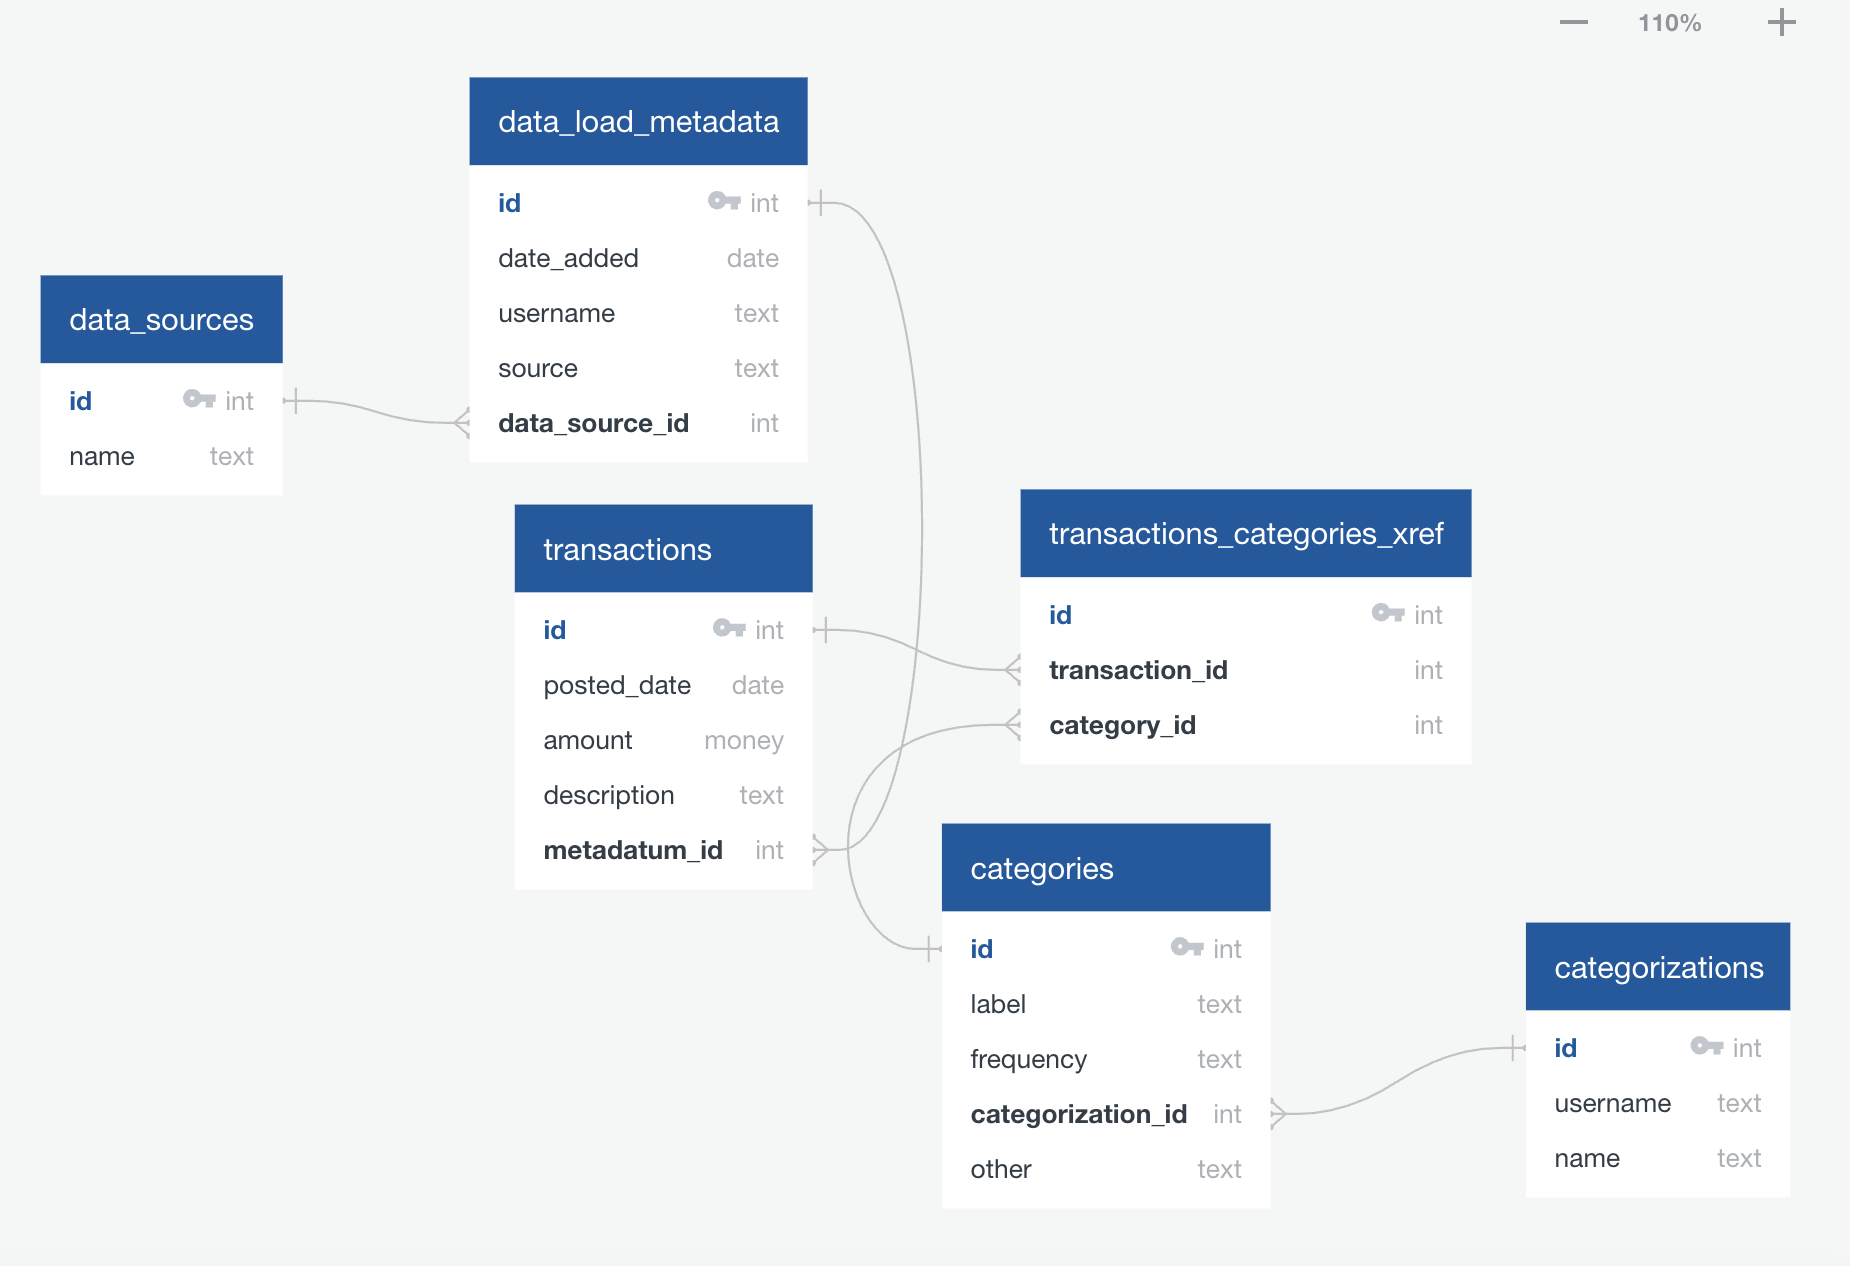
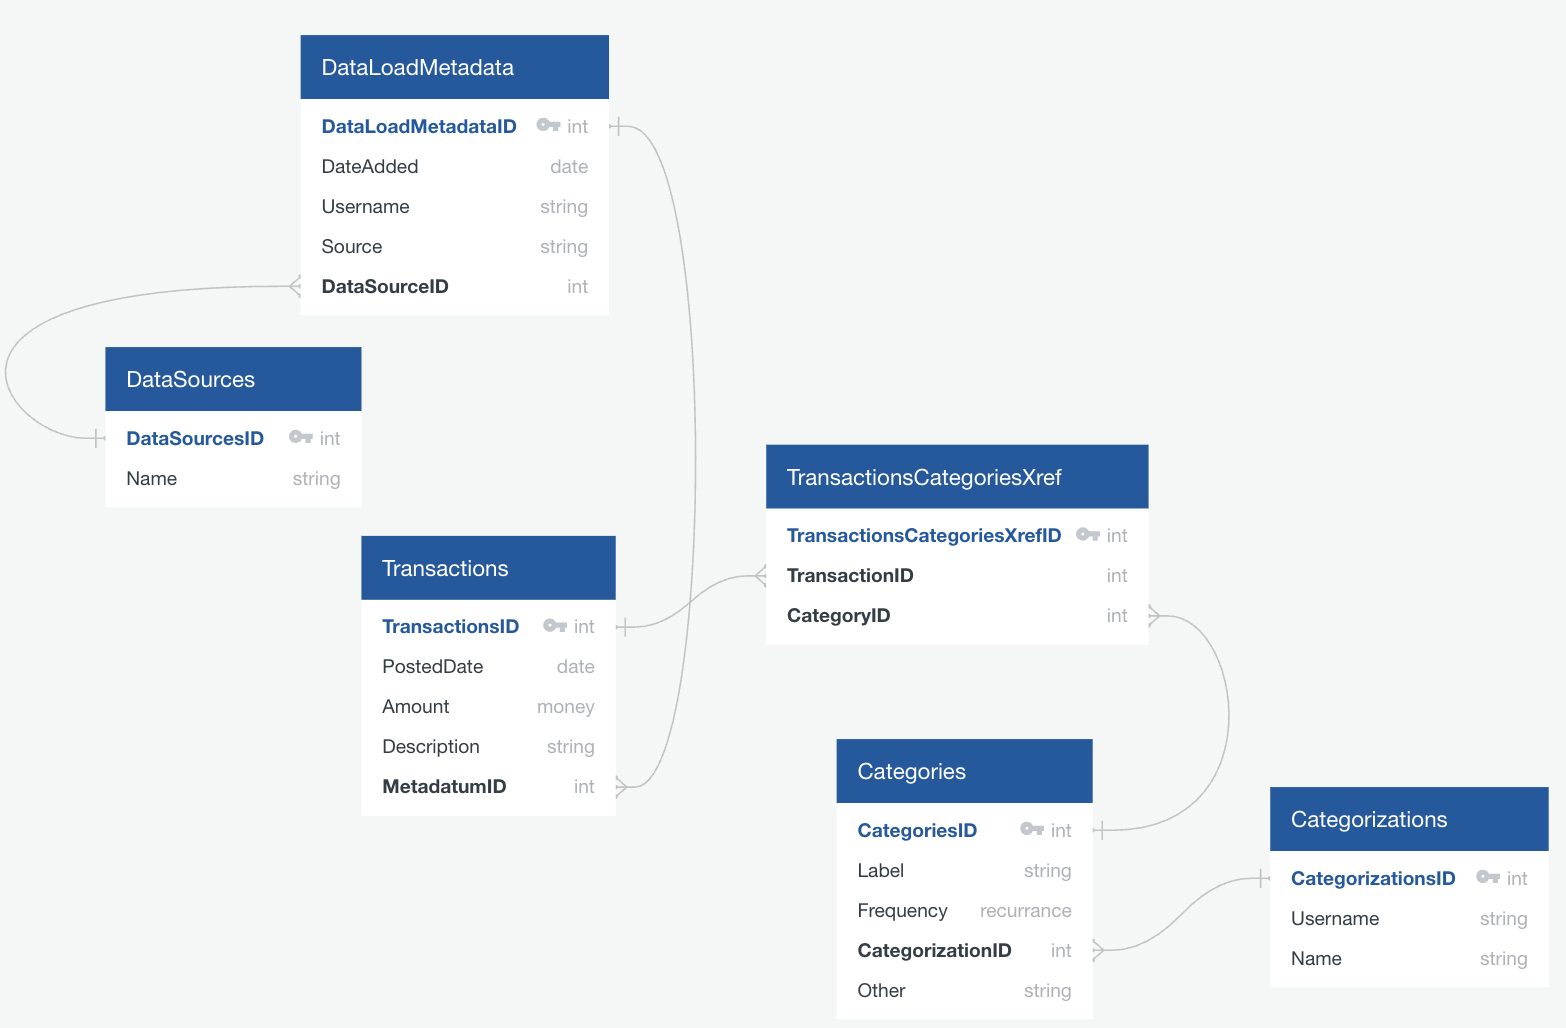
Add new schema img, found some more bugs in the process

diff --git a/src/fintrackr/SQL_to_EDL.py b/src/fintrackr/SQL_to_EDL.py
@@ -1,3 +1,7 @@
+"""
+Copyright (c) 2026 Stephanie Johnson
+"""
+
 import os, sys
 import re
 
@@ -97,24 +101,25 @@ def convert_to_EDL(schema_file_path: str) -> str:
             col_name = convert_name(col_name)
 
             col_type = next_elements[1]
+            # Strip a trailing comma, if present
+            col_type = re.sub(",","",col_type)
             if col_type in type_conversions:
                 col_type = type_conversions[col_type]
 
             new_line = col_name + " " + col_type
 
             if len(next_elements) > 2:
-                if next_elements[2] == "REFERENCES":
-                    # Unfortunate special case: this means the end of col_name is now Id, needs to be ID
-                    col_name = col_name[:-1] + col_name[-1].upper()
-                    new_line = col_name + " " + col_type
-                    ref_table_name = next_elements[3].split("(")[0]
-                    ref_table_name = convert_name(ref_table_name)
-                    ref_piece = " FK >- " + ref_table_name + "." + ref_table_name + "ID"
-                    new_line = new_line + ref_piece
-                # else: EDL won't take things like "UNIQUE", "NOT NULL" so just ignore those (drop them)
-            else:
-                # Strip a trailing comma, if present
-                new_line = re.sub(",","",new_line)
+                for n in range(2,len(next_elements)):
+                    if next_elements[n] == "REFERENCES":
+                        # Unfortunate special case: this means the end of col_name is now Id, needs to be ID
+                        col_name = col_name[:-1] + col_name[-1].upper()
+                        new_line = col_name + " " + col_type
+                        ref_table_name = next_elements[n+1].split("(")[0]
+                        ref_table_name = convert_name(ref_table_name)
+                        ref_piece = " FK >- " + ref_table_name + "." + ref_table_name + "ID"
+                        new_line = new_line + ref_piece
+                        break
+                    # else: EDL won't take things like "UNIQUE", "NOT NULL" so just ignore those (drop them)
 
             edl_lines.append(new_line)
         edl_lines.append("\n")
